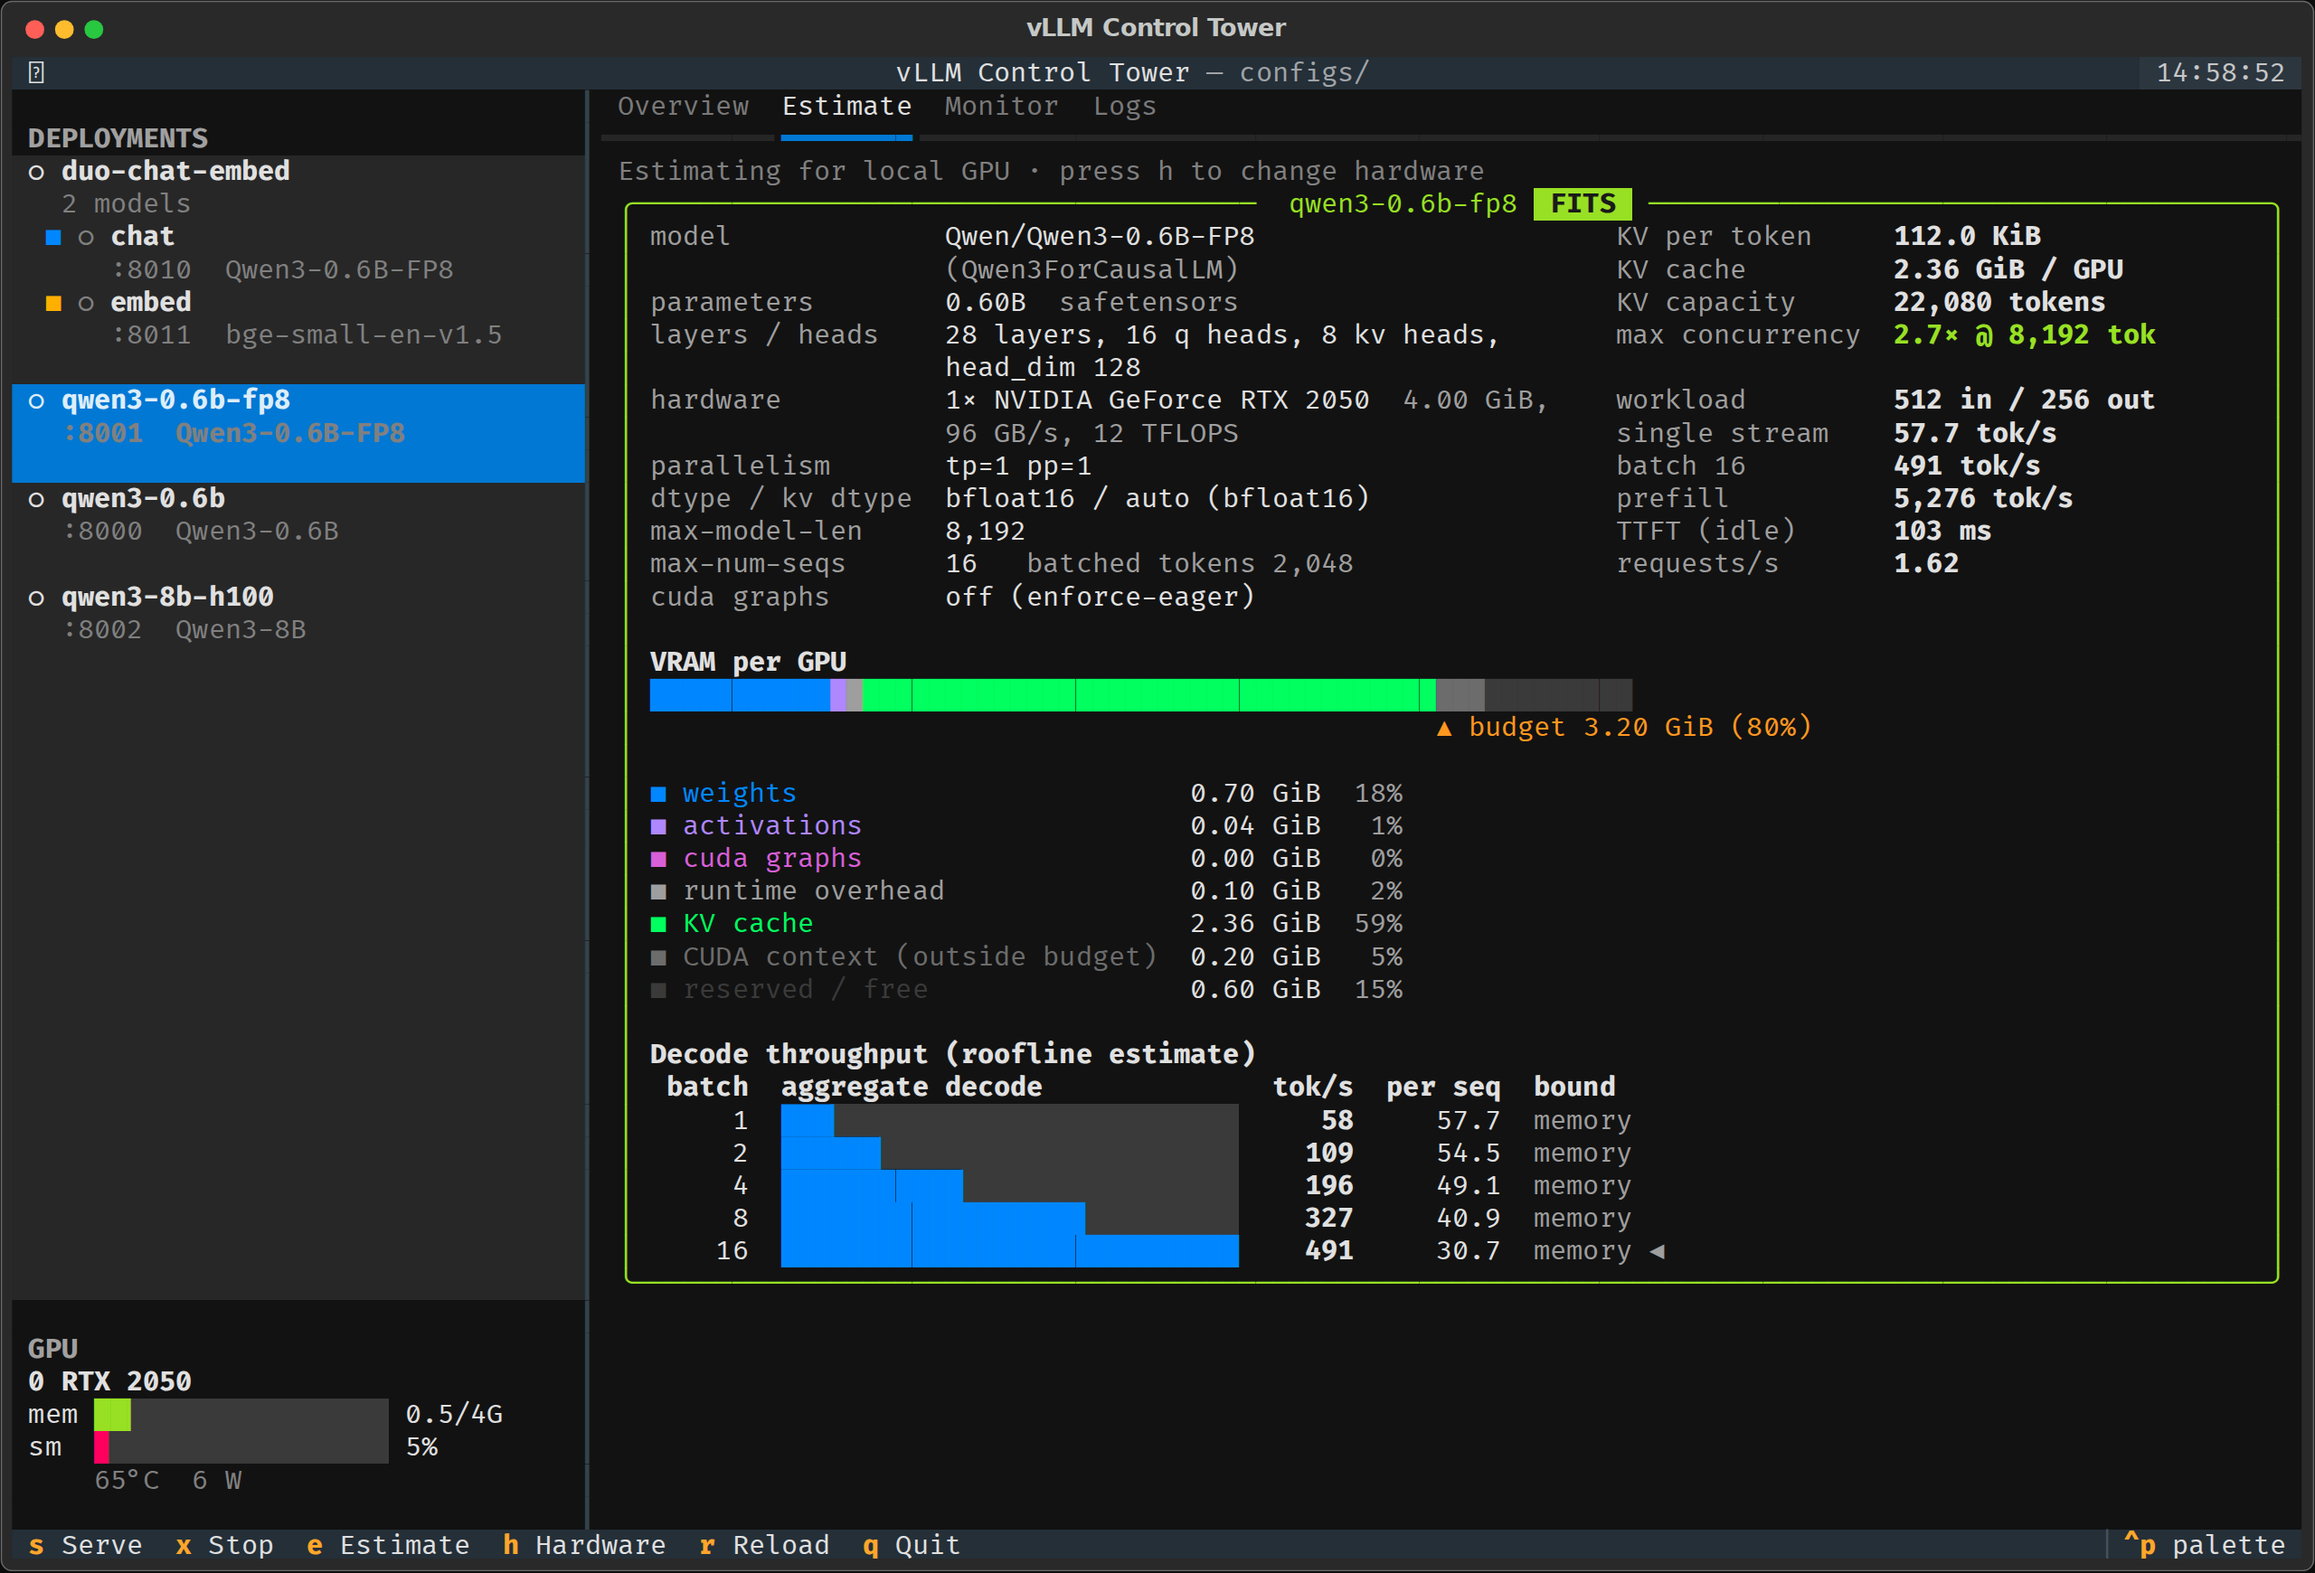
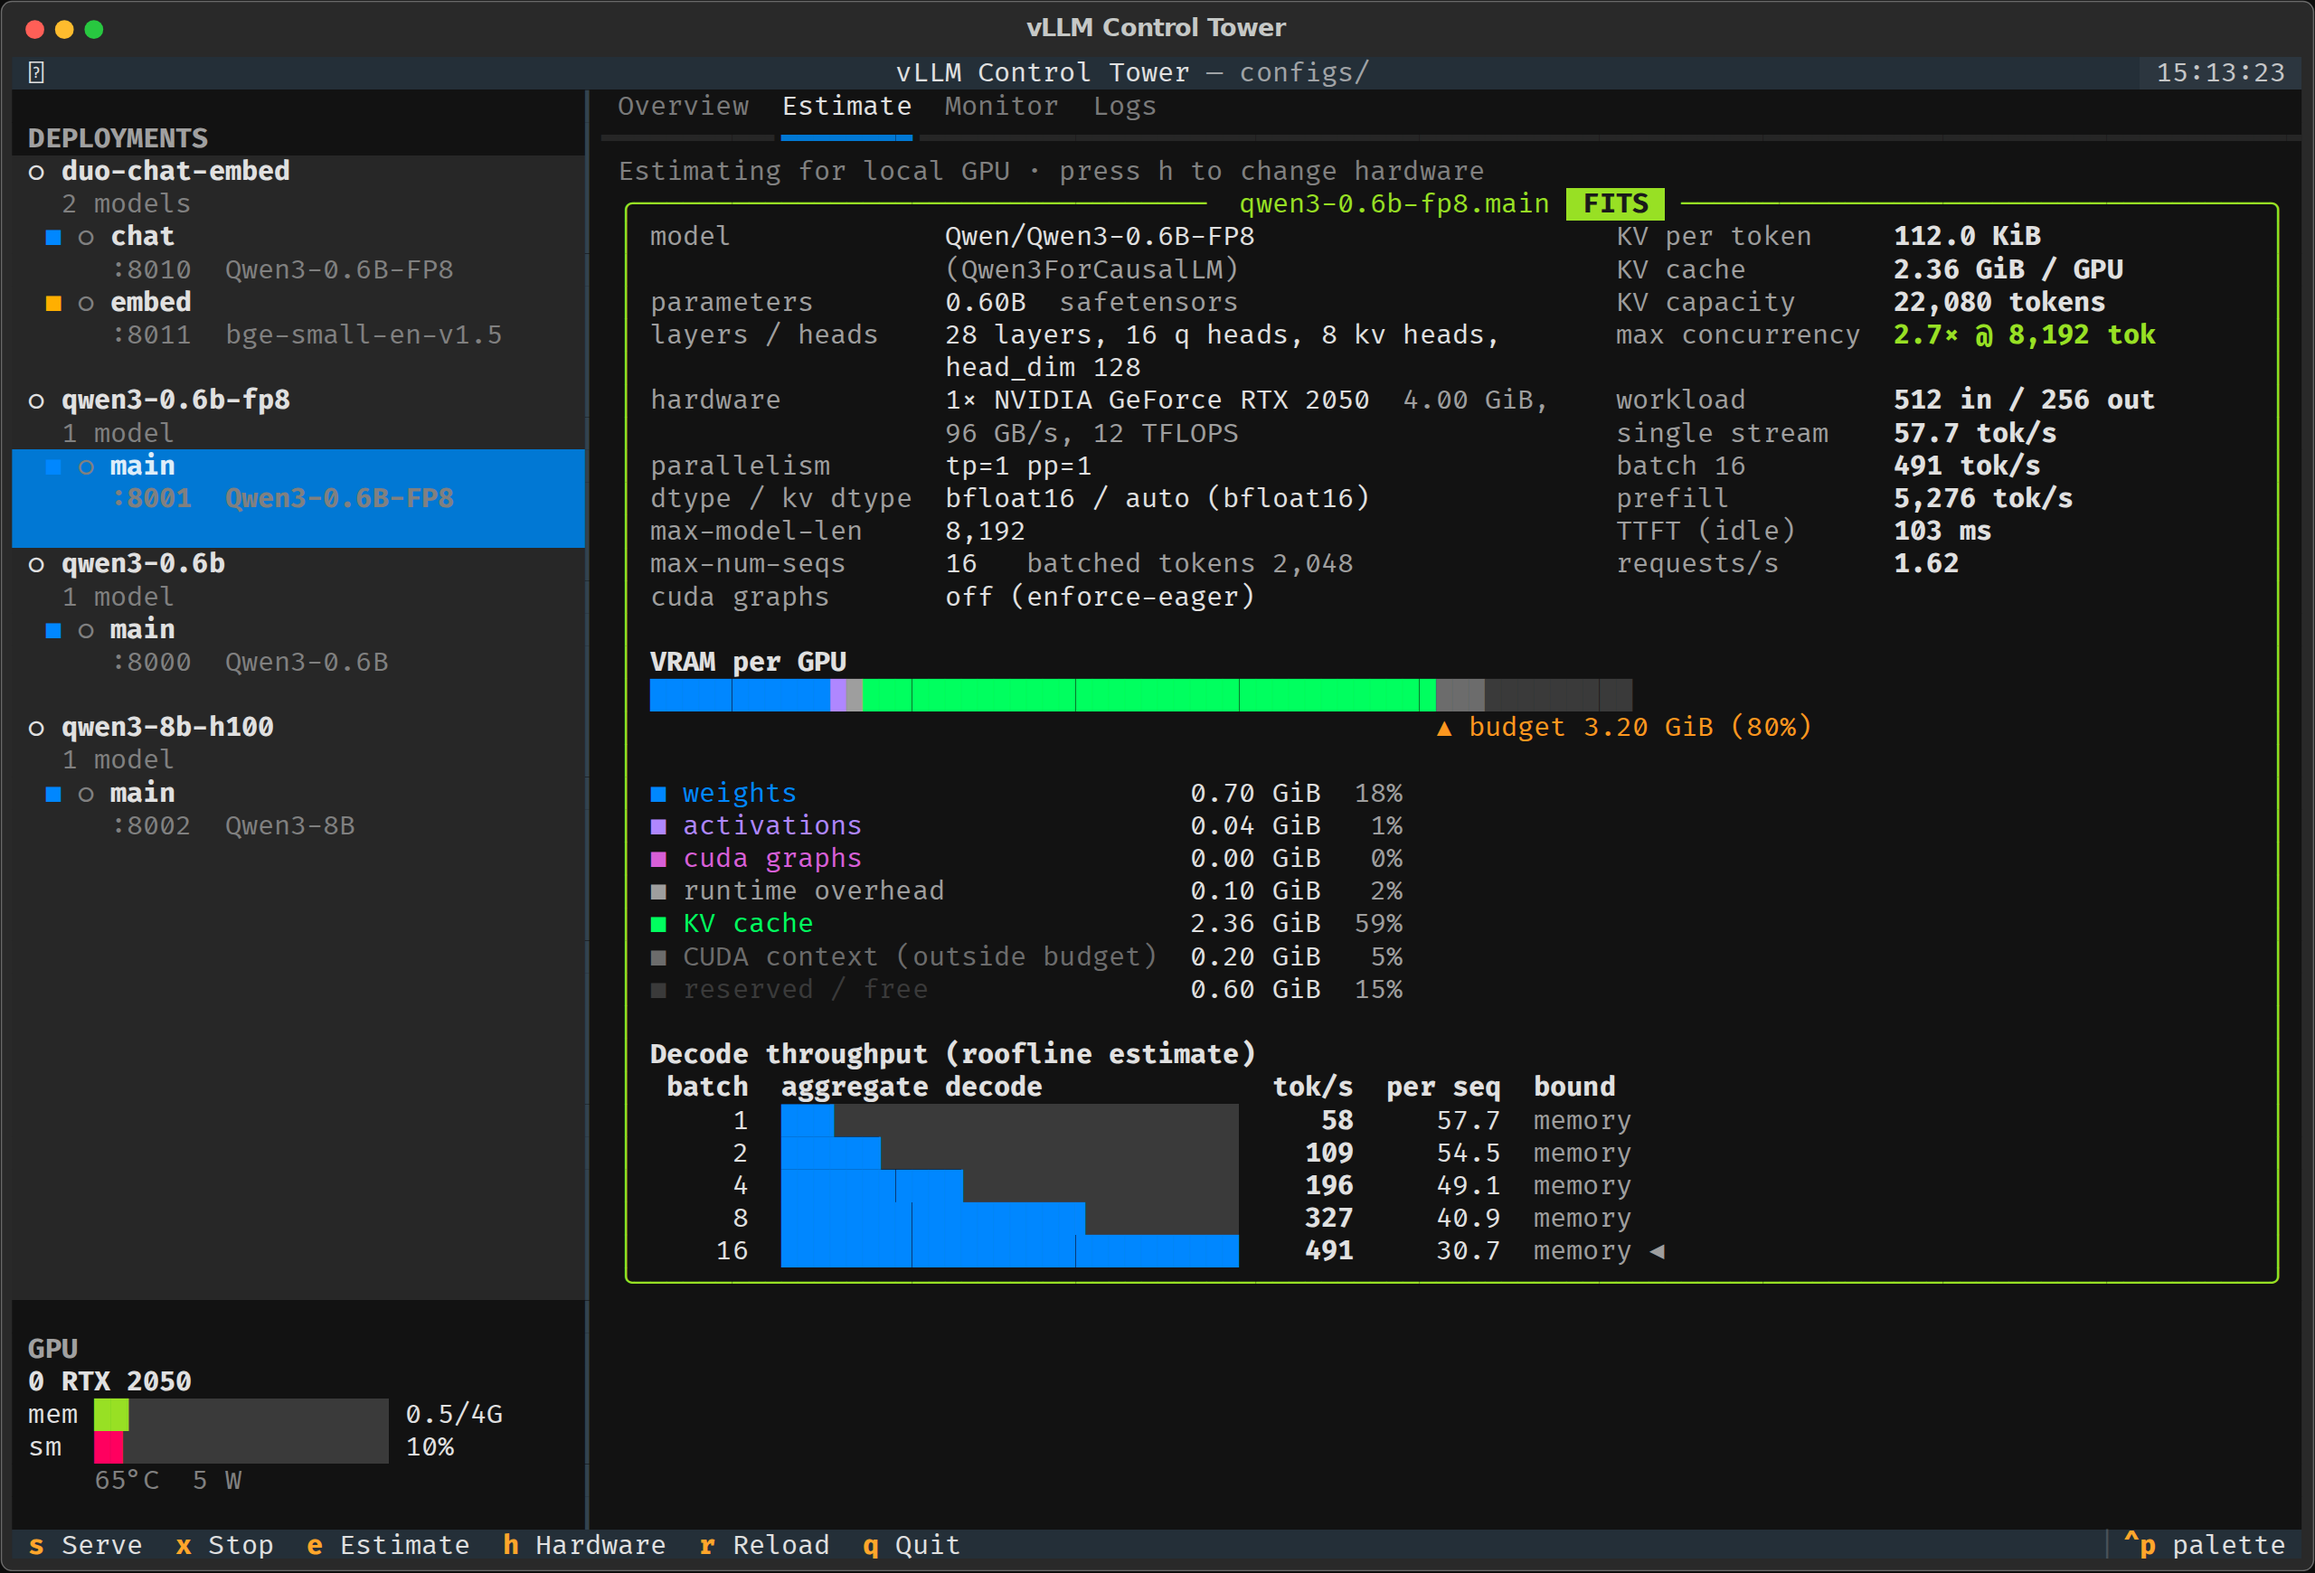
all model nested

diff --git a/src/vllm_control_tower/render.py b/src/vllm_control_tower/render.py
@@ -170,7 +170,7 @@ def diagnostics(est: Estimate) -> RenderableType | None:
     return Group(*lines) if lines else None
 
 
-def estimate_report(est: Estimate, title: str | None = None) -> RenderableType:
+def estimate_report(est: Estimate) -> RenderableType:
     verdict = (
         Text(" FITS ", style="bold black on green")
         if est.fits
@@ -190,7 +190,7 @@ def estimate_report(est: Estimate, title: str | None = None) -> RenderableType:
         parts += [Text(), diag]
     return Panel(
         Group(*parts),
-        title=Text.assemble(f" {title or est.config_name} ", verdict),
+        title=Text.assemble(f" {est.config_name} ", verdict),
         border_style="green" if est.fits else "red",
     )
 
@@ -218,9 +218,7 @@ def gpu_table(gpus: list[GpuSpec]) -> RenderableType:
     return t
 
 
-def config_details(
-    cfg: ServeConfig, status: Status | None = None, description: str = ""
-) -> RenderableType:
+def config_details(cfg: ServeConfig, status: Status | None = None) -> RenderableType:
     t = Table.grid(padding=(0, 2))
     t.add_column(style="grey62")
     t.add_column()
@@ -231,8 +229,8 @@ def config_details(
             if status.uptime_s is not None:
                 badge.append(f"  up {_duration(status.uptime_s)}", style="grey62")
         t.add_row("status", badge)
-    if description or cfg.description:
-        t.add_row("description", description or cfg.description)
+    if cfg.description:
+        t.add_row("description", cfg.description)
     t.add_row("model", Text(cfg.model, style="bold cyan"))
     t.add_row("endpoint", f"{cfg.base_url}/v1")
     t.add_row("file", str(cfg.path) if cfg.path else "-")
@@ -329,11 +327,6 @@ def deployment_member_table(ge: DeploymentEstimate) -> RenderableType:
 
 
 def deployment_estimate_report(de: DeploymentEstimate) -> RenderableType:
-    if len(de.members) == 1:
-        _, est = de.members[0]
-        if isinstance(est, str):
-            return Text(est, style="red")
-        return estimate_report(est, title=de.name)
     verdict = (
         Text(" FITS ", style="bold black on green")
         if de.fits
@@ -359,17 +352,18 @@ def deployment_estimate_report(de: DeploymentEstimate) -> RenderableType:
         parts += [Text(), *lines]
     summary = Panel(
         Group(*parts),
-        title=Text.assemble(f" {de.name} ({len(de.members)} models) ", verdict),
+        title=Text.assemble(f" {de.name} ({_models(len(de.members))}) ", verdict),
         border_style="green" if de.fits else "red",
     )
     details = [estimate_report(e) for _, e in de.members if isinstance(e, Estimate)]
     return Group(summary, *details)
 
 
+def _models(n: int) -> str:
+    return f"{n} model{'s' if n > 1 else ''}"
+
+
 def deployment_details(group: Deployment, statuses: dict[str, Status]) -> RenderableType:
-    if group.single:
-        m = group.members[0]
-        return config_details(m, statuses.get(m.name), group.description)
     t = Table.grid(padding=(0, 2))
     t.add_column(style="grey62")
     t.add_column()

diff --git a/src/vllm_control_tower/tui.py b/src/vllm_control_tower/tui.py
@@ -52,7 +52,7 @@ LOCAL = "__local__"
 
 
 class ModelItem(ListItem):
-    """A model row under a multi-model deployment."""
+    """A model row, nested under its deployment."""
 
     def __init__(self, cfg: ServeConfig, color: str, last: bool) -> None:
         super().__init__(classes="member last" if last else "member")
@@ -82,7 +82,7 @@ class ModelItem(ListItem):
 
 class DeploymentItem(ListItem):
     def __init__(self, dep: Deployment) -> None:
-        super().__init__(classes=None if dep.single else "group")
+        super().__init__(classes="group")
         self.dep = dep
         self.label = Static(self._text(State.STOPPED))
 
@@ -100,11 +100,8 @@ class DeploymentItem(ListItem):
         icon, style = STATE_STYLE[state]
         t = Text(f" {icon} ", style=style)
         t.append(self.dep.name, style="bold")
-        if self.dep.single:
-            m = self.dep.members[0]
-            t.append(f"\n   :{m.port}  {m.model.split('/')[-1]}", style="grey50")
-        else:
-            t.append(f"\n   {len(self.dep.members)} models", style="grey50")
+        n = len(self.dep.members)
+        t.append(f"\n   {n} model{'s' if n > 1 else ''}", style="grey50")
         return t
 
 
@@ -372,8 +369,6 @@ class ControlTower(App):
         for dep in cat.deployments:
             lv.append(DeploymentItem(dep))
             names.append(dep.name)
-            if dep.single:
-                continue
             for i, m in enumerate(dep.members):
                 color = MEMBER_COLORS[i % len(MEMBER_COLORS)]
                 lv.append(ModelItem(m, color, last=i == len(dep.members) - 1))
@@ -391,7 +386,7 @@ class ControlTower(App):
         self.select(names[index], force=True)
 
     def entry(self, name: str | None) -> Deployment | ServeConfig | None:
-        """The selected row: a deployment, or one model of a multi-model deployment."""
+        """The selected row: a deployment, or one of its models."""
         dep = next((d for d in self.deployments if d.name == name), None)
         return dep or next((m for m in self.servers if m.name == name), None)
 

diff --git a/src/vllm_control_tower/cli.py b/src/vllm_control_tower/cli.py
@@ -114,11 +114,8 @@ def list_configs() -> None:
     for dep in cat.deployments:
         statuses = _statuses(dep)
         state = state_badge(deployment_state(dep, statuses))
-        if dep.single:
-            m = dep.members[0]
-            t.add_row(f"[bold]{dep.name}[/]", state, m.model, m.base_url)
-            continue
-        t.add_row(f"[bold]{dep.name}[/]", state, f"[grey62]{len(dep.members)} models[/]", "")
+        n = len(dep.members)
+        t.add_row(f"[bold]{dep.name}[/]", state, f"[grey62]{n} model{'s' if n > 1 else ''}[/]", "")
         for i, m in enumerate(dep.members):
             color = MEMBER_COLORS[i % len(MEMBER_COLORS)]
             t.add_row(

diff --git a/tests/test_deployment.py b/tests/test_deployment.py
@@ -48,7 +48,7 @@ def test_deployment_loading(write_config):
     assert [d.name for d in cat.deployments] == ["duo", "solo"]
     assert [m.name for m in cat.servers] == ["duo.chat", "duo.embed", "solo.main"]
     duo, solo = cat.deployments
-    assert not duo.single and solo.single
+    assert (len(duo.members), len(solo.members)) == (2, 1)
     chat, embed = duo.members
     assert chat.deployment == "duo" and chat.short_name == "chat"
     assert duo.member("chat") is chat and duo.member("duo.embed") is embed

diff --git a/tests/test_config.py b/tests/test_config.py
@@ -35,7 +35,7 @@ def test_single_model_deployment_and_command(write_config, monkeypatch):
     assert cat.errors == []
     (dep,) = cat.deployments
     assert dep.name == "small"  # defaults to the file stem
-    assert dep.single
+    assert len(dep.members) == 1
     (cfg,) = dep.members
     assert cfg.name == "small.main"  # a lone model defaults to "main"
     assert cfg.short_name == "main" and cfg.deployment == "small"

diff --git a/src/vllm_control_tower/config.py b/src/vllm_control_tower/config.py
@@ -137,10 +137,6 @@ class Deployment(BaseModel):
         return cls.model_validate({**data, "models": members})
 
     @property
-    def single(self) -> bool:
-        return len(self.members) == 1
-
-    @property
     def ports(self) -> list[int]:
         return [m.port for m in self.members]
 

diff --git a/README.md b/README.md
@@ -35,7 +35,7 @@ uv run vct stop qwen3-0.6b       # or: vct stop --all
 
 | key | action |
 | --- | --- |
-| `↑` `↓` | select a deployment (or one model of a multi-model deployment) |
+| `↑` `↓` | select a deployment or one of its models |
 | `←` `→` / `1`–`4` | switch tab: Overview, Estimate, Monitor, Logs |
 | `s` / `enter` | serve the selection; a deployment starts its models in order |
 | `x` | stop it (asks for confirmation) |
@@ -93,7 +93,7 @@ models:
 - `vct start duo-chat-embed` starts models in the order listed. Each one starts only after the previous one passes its health check, because vLLM sizes its KV cache from the free memory it sees at startup.
 - `vct stop duo-chat-embed` stops them in reverse order.
 - `vct estimate duo-chat-embed` adds a combined check. Each vLLM instance claims `gpu-memory-utilization × total VRAM`, so models on the same GPU must sum to less than what is free, minus one CUDA context (~0.2 GiB) per model. Models with different `CUDA_VISIBLE_DEVICES` are budgeted separately.
-- One model can be targeted on its own: `vct stop duo-chat-embed.embed`, `vct logs duo-chat-embed.chat -f`. In the TUI, multi-model deployments list their models underneath. The deployment row acts on all of them, and its Monitor and Logs tabs combine them.
+- One model can be targeted on its own: `vct stop duo-chat-embed.embed`, `vct logs duo-chat-embed.chat -f`. In the TUI and `vct list`, every deployment lists its models underneath, even when there is only one. The deployment row acts on all of them, and its Monitor and Logs tabs combine them. A model row acts on that model alone.
 
 ![Deployment estimate: a chat model and an embedding model sharing one GPU, with the combined VRAM budget per model](docs/tui-group.png)
 
